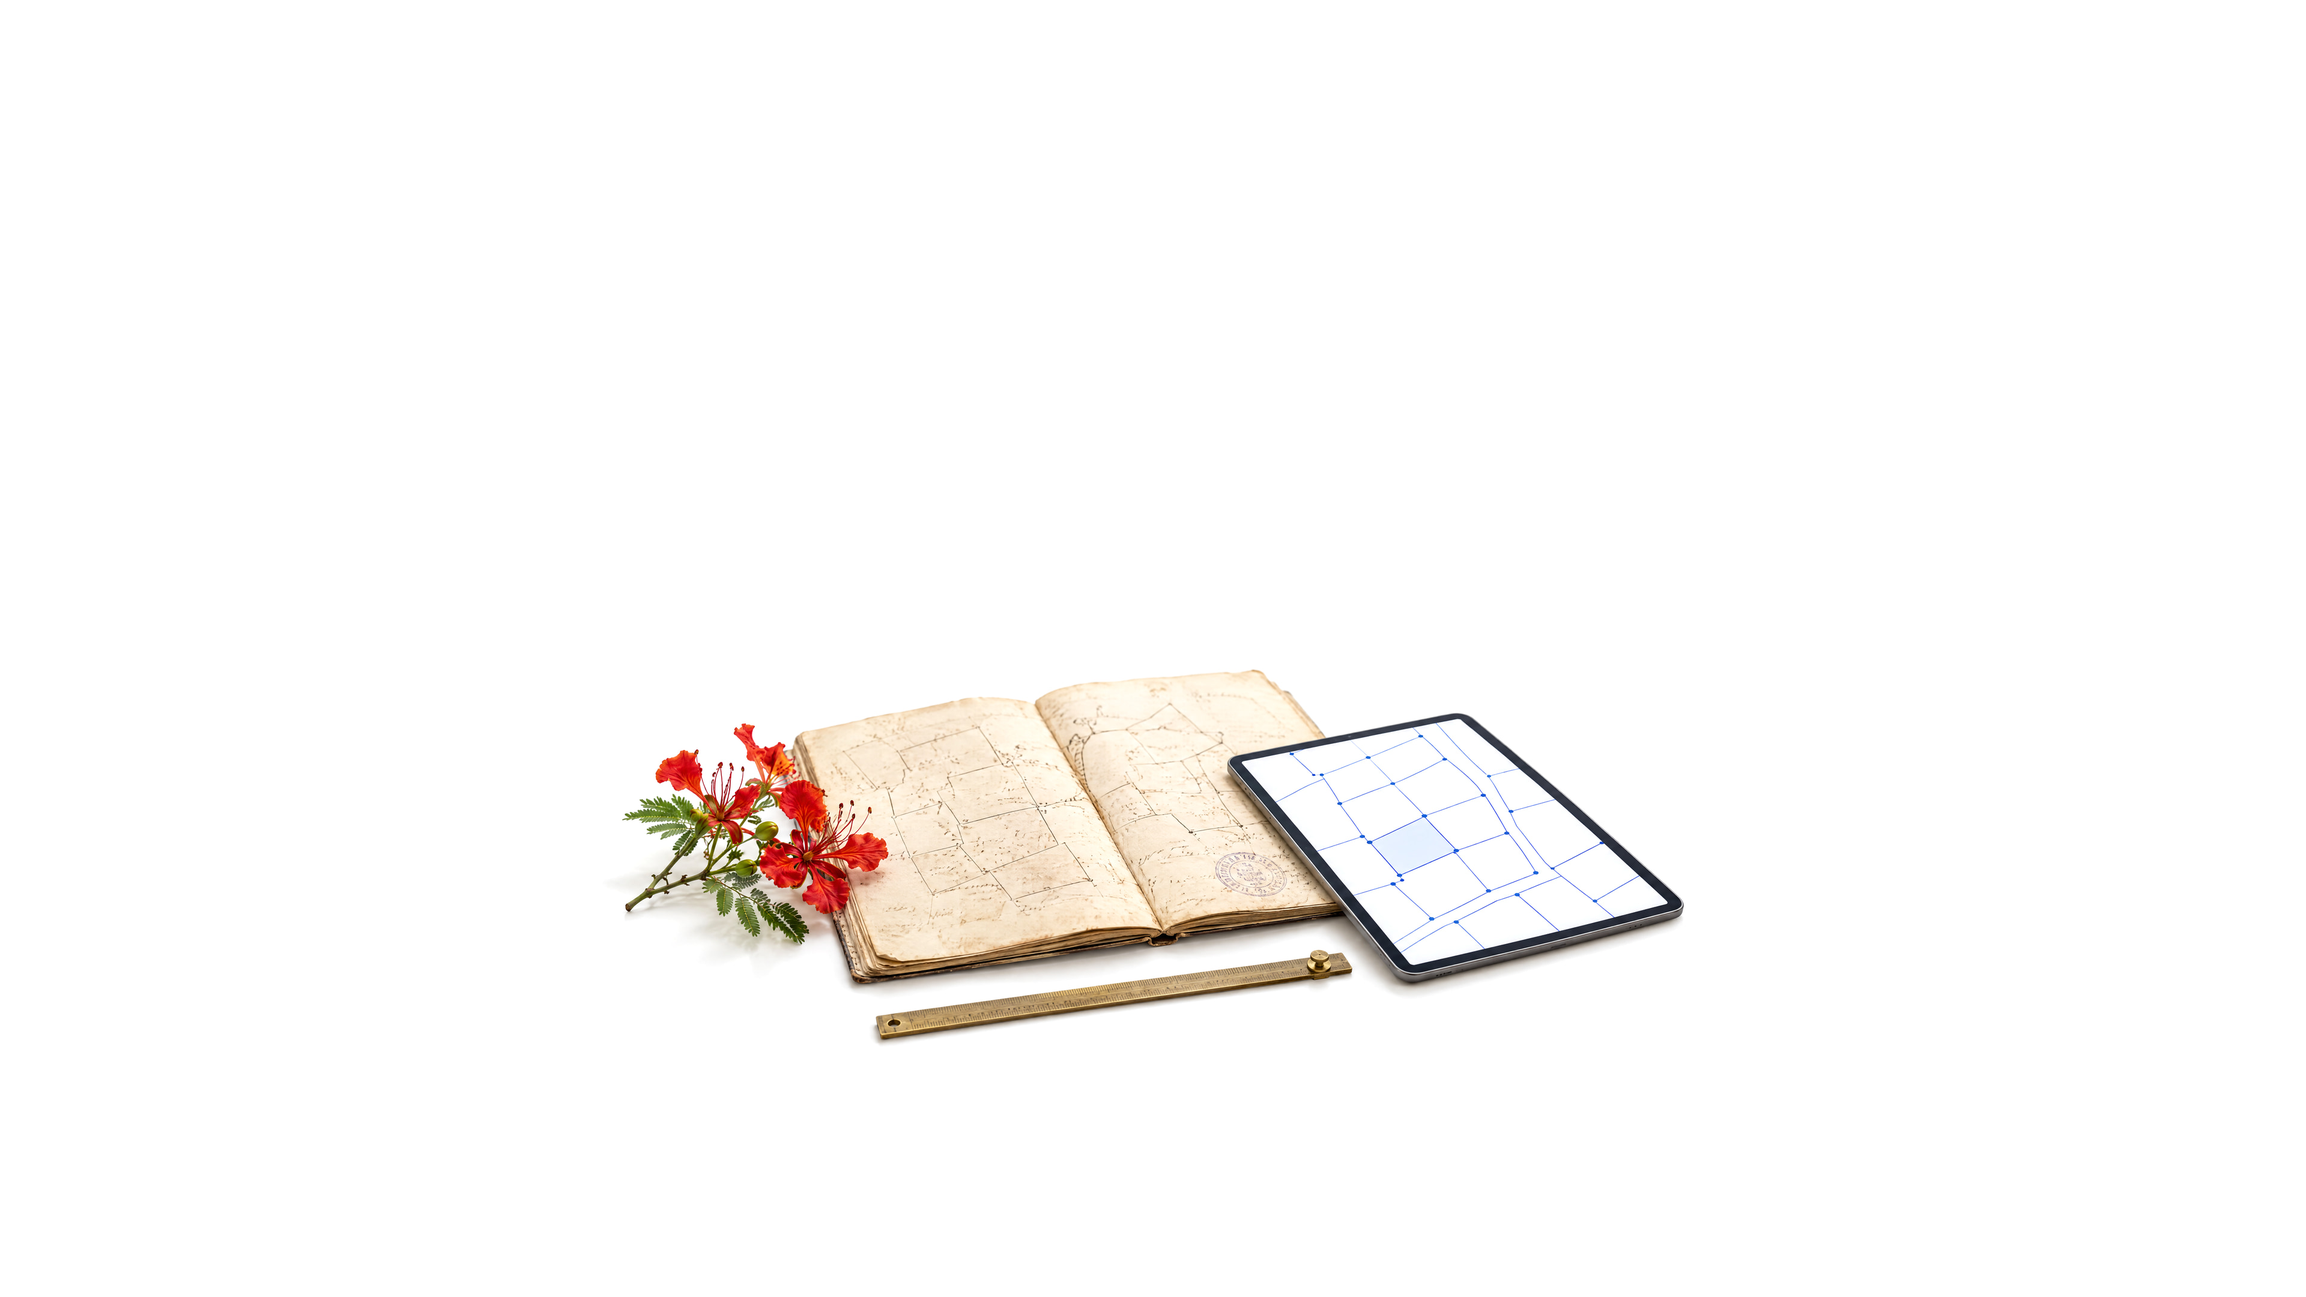
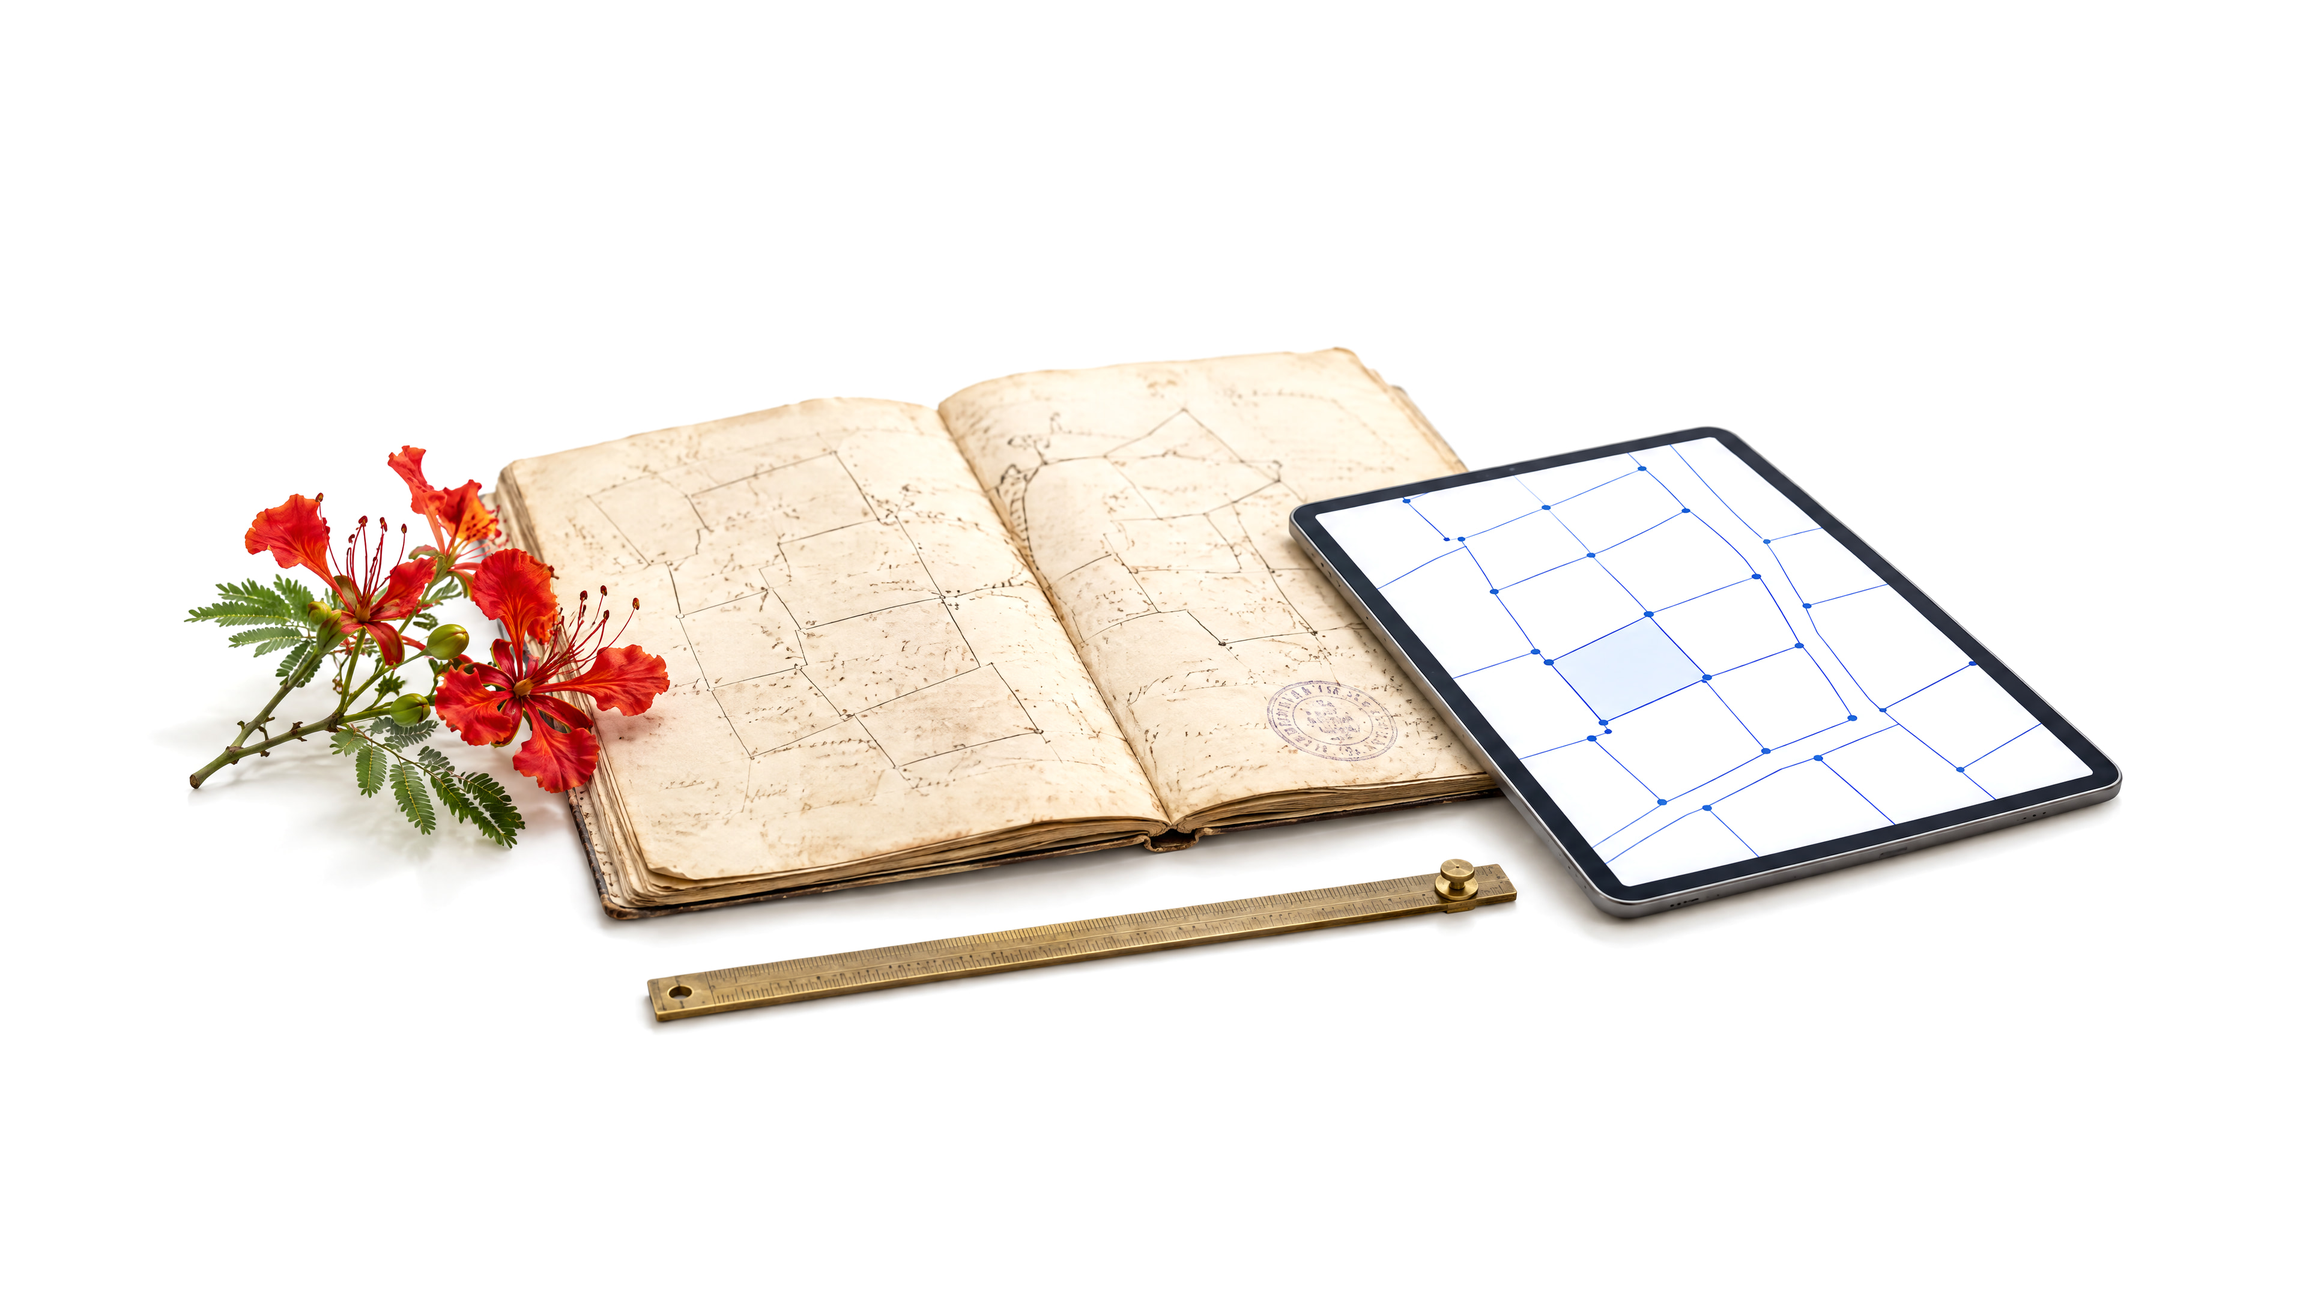
feat(guides): equal-size cards, covers shown whole at 16:9
Owner: all cards the same size, pictures not squashed.
- The first card no longer spans two columns; every card is one size.
- A cover sits under the title in a 16:9 box, closed and open, so it is never
  cropped and the lift animation only scales it evenly. Without a cover the
  blue ground and white title are unchanged.
- Both covers re-fitted from their 4K originals to fill the frame (~84 %
  wide, centred); the 3 + 1 + 1 one gets a new name (-v2) so the 30-day
  optimised-image cache cannot keep serving the old picture.
- The article page shows the cover whole at 16:9.
- The white card's outline sits outside the card, so the picture no longer
  cuts it.

diff --git a/web/components/blog/GuideCards.js b/web/components/blog/GuideCards.js
@@ -10,12 +10,12 @@ import { cn } from '@/lib/utils';
 
 const loadFeatures = () => import('./guideCardFeatures').then((mod) => mod.default);
 
-// The card's photo keeps the SAME pixel size closed and open (the open card's
-// width × header height), and the closed tile only shows a window of it. That
-// is what lets the photo travel with the card without stretching: a layout
-// animation is a transform, and a box that changes shape distorts what is in it.
-// The title box keeps one width for the same reason. CSS variables, so the
-// tile and the open card read the same numbers at every breakpoint.
+// A layout animation is a transform, and a box that changes shape distorts what
+// is in it. So a cover keeps its own 16:9 shape closed and open (the card's
+// width × 9/16, under the title): it only scales, evenly, and is never cropped.
+// Without a cover, the blue ground keeps one pixel size (--gc-w × --gc-h) and
+// the tile shows a window of it. The title box keeps one width for the same
+// reason. CSS variables, so the tile and the open card read the same numbers.
 const SIZES = '[--gc-w:100vw] [--gc-h:90vw] [--gc-title:calc(100vw-72px)] sm:[--gc-w:45rem] sm:[--gc-h:24rem] sm:[--gc-title:19rem]';
 const RADIUS = 20;
 const SPRING = { type: 'spring', stiffness: 380, damping: 36, mass: 0.9 };
@@ -89,7 +89,7 @@ export default function GuideCards({ articles, labels }) {
       <MotionConfig reducedMotion="user" transition={SPRING}>
         <ul className={cn('grid gap-4 sm:grid-cols-2 sm:gap-5', SIZES)}>
           {articles.map((a, i) => (
-            <li key={a.slug} className={i === 0 ? 'sm:col-span-2' : undefined}>
+            <li key={a.slug}>
               <Link
                 ref={(el) => {
                   if (el) tileRefs.current.set(a.slug, el);
@@ -121,13 +121,13 @@ function Tile({ article: a, priority }) {
       style={{ borderRadius: RADIUS }}
       className={cn(
         'relative h-full w-full overflow-hidden shadow-[0_1px_2px_rgb(12_29_80/0.08),0_8px_24px_-12px_rgb(12_29_80/0.35)]',
-        a.coverUrl ? 'bg-white ring-1 ring-inset ring-[rgb(12_29_80/0.08)]' : 'bg-[var(--blue-900)]',
+        a.coverUrl ? 'bg-white ring-1 ring-[rgb(12_29_80/0.08)]' : 'bg-[var(--blue-900)]',
       )}
     >
-      <Media article={a} priority={priority} />
+      <Media article={a} priority={priority} className={a.coverUrl ? 'absolute inset-x-0 bottom-0 aspect-[16/9]' : undefined} />
       <Heading article={a} />
-      {/* A cover is the picture under the title, like the App Store; without one the
-          summary fills the card. The open card always shows it. */}
+      {/* A cover is the picture under the title; without one the summary fills the
+          card. The open card always shows it. */}
       {a.summary && !a.coverUrl ? (
         <m.div layout="position" className="absolute inset-x-0 bottom-0 bg-[linear-gradient(to_top,rgb(0_0_0/0.62)_0%,rgb(0_0_0/0.38)_55%,rgb(0_0_0/0)_100%)] p-5 pt-14">
           <p lang={a.lang} className="line-clamp-2 text-[0.875rem] leading-snug text-white/90">
@@ -187,10 +187,17 @@ function OpenCard({ article: a, labels, phone, onClose }) {
           className="pointer-events-auto relative flex h-full w-full flex-col overflow-hidden bg-surface sm:h-auto sm:max-h-[calc(100dvh-3rem)] sm:max-w-[45rem]"
         >
           <m.div layoutScroll className="flex-1 overflow-y-auto overscroll-contain">
-            <div className={cn('relative h-[var(--gc-h)] w-full shrink-0 overflow-hidden', a.coverUrl ? 'bg-white' : 'bg-[var(--blue-900)]')}>
-              <Media article={a} />
-              <Heading article={a} />
-            </div>
+            {a.coverUrl ? (
+              <div className="bg-white">
+                <Heading article={a} className="relative ml-5 mt-6 sm:ml-8 sm:mt-7" />
+                <Media article={a} className="relative mt-3 aspect-[16/9] w-full" />
+              </div>
+            ) : (
+              <div className="relative h-[var(--gc-h)] w-full shrink-0 overflow-hidden bg-[var(--blue-900)]">
+                <Media article={a} />
+                <Heading article={a} />
+              </div>
+            )}
             <m.div
               initial={{ opacity: 0, y: 16 }}
               animate={{ opacity: 1, y: 0, transition: { delay: 0.12, duration: 0.3, ease: [0.16, 1, 0.3, 1] } }}
@@ -237,13 +244,17 @@ function OpenCard({ article: a, labels, phone, onClose }) {
   );
 }
 
-/** The photo (or the brand-blue ground when the article has none), same size open and closed. */
-function Media({ article: a, priority = false }) {
+/**
+ * The cover in the 16:9 box the caller gives it (shown whole), or, without a
+ * cover, the brand-blue ground at one fixed size, centred.
+ */
+function Media({ article: a, priority = false, className }) {
+  const fixed = !a.coverUrl;
   return (
     <m.div
       layoutId={`gc-media-${a.slug}`}
-      className="absolute top-0 h-[var(--gc-h)] w-[var(--gc-w)]"
-      style={{ left: 'calc(50% - var(--gc-w) / 2)' }}
+      className={fixed ? 'absolute top-0 h-[var(--gc-h)] w-[var(--gc-w)]' : className}
+      style={fixed ? { left: 'calc(50% - var(--gc-w) / 2)' } : undefined}
     >
       {a.coverUrl ? (
         <Image src={a.coverUrl} alt={a.coverAlt || ''} fill sizes={IMAGE_SIZES} priority={priority} className="object-cover" />
@@ -253,26 +264,16 @@ function Media({ article: a, priority = false }) {
           className="absolute inset-0 bg-[radial-gradient(120%_90%_at_15%_0%,var(--blue-400)_0%,var(--blue)_45%,var(--blue-900)_100%)]"
         />
       )}
-      {/* Keeps the title readable. Covers are drawn on white (content/blog/images/src), so
-          over a cover the title is ink on a white fade, which also holds on any photo; the
-          blue ground without a cover keeps a white title on a dark fade. The tile's summary
-          carries its own gradient, so the open card shows the picture's lower half untouched. */}
-      <div
-        aria-hidden="true"
-        className={cn(
-          'absolute inset-0',
-          a.coverUrl
-            ? 'bg-[linear-gradient(to_bottom,rgb(255_255_255/0.88)_0%,rgb(255_255_255/0.6)_22%,rgb(255_255_255/0)_42%)]'
-            : 'bg-[linear-gradient(to_bottom,rgb(0_0_0/0.42)_0%,rgb(0_0_0/0)_40%)]',
-        )}
-      />
+      {/* The white title over the blue ground gets a dark fade; a cover sits under its
+          title, so nothing is drawn over the picture. */}
+      {fixed ? <div aria-hidden="true" className="absolute inset-0 bg-[linear-gradient(to_bottom,rgb(0_0_0/0.42)_0%,rgb(0_0_0/0)_40%)]" /> : null}
     </m.div>
   );
 }
 
-function Heading({ article: a }) {
+function Heading({ article: a, className = 'absolute left-5 top-5' }) {
   return (
-    <m.div layoutId={`gc-head-${a.slug}`} className={cn('absolute left-5 top-5 w-[var(--gc-title)]', a.coverUrl ? 'text-ink' : 'text-white')}>
+    <m.div layoutId={`gc-head-${a.slug}`} className={cn(className, 'w-[var(--gc-title)]', a.coverUrl ? 'text-ink' : 'text-white')}>
       {a.eyebrow ? (
         <p className={cn('text-[0.6875rem] font-semibold uppercase tracking-[0.1em]', a.coverUrl ? 'text-blue-deep' : 'text-white/80')}>{a.eyebrow}</p>
       ) : null}

diff --git a/web/app/(site)/guides/[slug]/page.js b/web/app/(site)/guides/[slug]/page.js
@@ -121,12 +121,10 @@ export default async function GuidePage({ params }) {
           {t('guides.readingTime', { minutes: readingMinutes(article.blocks) })}
           {locale === 'en' && article.lang === 'fr' ? ` · ${t('guides.frenchOnly')}` : ''}
         </p>
-        {/* Covers are drawn for the /guides card (GuideCards): the top of the picture is
-            left clear for the title written over it there. Here the title is above, so the
-            band is wider and leans to the lower part, where the picture's subject sits. */}
+        {/* The cover whole, at its own 16:9, as the /guides cards show it. */}
         {article.coverUrl ? (
-          <div className="relative -mx-4 aspect-[5/2] overflow-hidden bg-canvas-alt sm:mx-0 sm:rounded-xl">
-            <Image src={article.coverUrl} alt={article.coverAlt} fill priority sizes="(min-width: 768px) 720px, 100vw" className="object-cover object-[50%_92%]" />
+          <div className="relative -mx-4 aspect-[16/9] overflow-hidden bg-canvas-alt sm:mx-0 sm:rounded-xl">
+            <Image src={article.coverUrl} alt={article.coverAlt} fill priority sizes="(min-width: 768px) 720px, 100vw" className="object-cover" />
           </div>
         ) : null}
         <ArticleBody blocks={article.blocks} listingsBlock={LiveListings} />

diff --git a/web/lib/guides.js b/web/lib/guides.js
@@ -41,7 +41,7 @@ export const GUIDES = [
     published: '2026-11-11',
     updated: '2026-11-11',
     cta: { href: '/location', label: 'Voir les logements à louer' },
-    cover: '/guides/garantie-3-1-1-kinshasa.jpg',
+    cover: '/guides/garantie-3-1-1-kinshasa-v2.jpg',
     coverAlt: 'Cinq enveloppes alignées : trois bleues, une dorée et une violette, avec une clé de maison.',
     body: [
       { p: 'Avant même la première nuit, un locataire à Kinshasa verse souvent cinq mois de loyer, parfois treize. La ligne « Garantie : 3 + 1 + 1 » d’une annonce décide souvent plus du budget que le loyer lui-même. Entrez votre loyer dans le calculateur ci-dessous pour voir le montant exact, poste par poste, et le comparer au plafond fixé par la loi de 2015 sur les baux.' },

diff --git a/web/tests/unit/blog.test.js b/web/tests/unit/blog.test.js
@@ -115,7 +115,7 @@ test('articles: English only when complete, a post replaces the guide with its s
 
 test('a code guide may carry a cover from public/guides, never another address', () => {
   const guide = GUIDES.find((g) => g.slug === 'garantie-3-1-1-kinshasa');
-  assert.equal(articleFromGuide(guide, 'fr').coverUrl, '/guides/garantie-3-1-1-kinshasa.jpg');
+  assert.equal(articleFromGuide(guide, 'fr').coverUrl, '/guides/garantie-3-1-1-kinshasa-v2.jpg');
   assert.ok(articleFromGuide(guide, 'fr').coverAlt.length > 0);
   assert.notEqual(articleFromGuide(guide, 'en').coverAlt, articleFromGuide(guide, 'fr').coverAlt);
   for (const cover of ['https://elsewhere.example/a.jpg', '/uploads/a.jpg', '/guides/../a.jpg', 'garantie.jpg']) {

diff --git a/web/CLAUDE.md b/web/CLAUDE.md
@@ -676,7 +676,7 @@ cascade; engine leads and visits stay).
   - Radix content portals to `document.body`, so it is **outside the `<form>`**. `FilterBar` therefore owns every filter value in React state and renders hidden inputs inside the form; the pill panels and the sheet are pure UI. Don't put a named form field inside a portalled panel and expect it to submit.
 - **Icons are `lucide-react`, always**, with `ICON_SIZE` / `ICON_STROKE_WIDTH` from `lib/constants.js`. The hand-rolled WhatsApp/Facebook/Instagram brand SVGs in `Footer.js` and `WhatsAppCTA.js` are the one deliberate exception — this lucide version ships no brand glyphs (confirmed by a failed build, not assumed).
 - **Motion is CSS, not a library.** `framer-motion`, `lib/motion.js` and `lib/useMotionSafe.js` are gone (see "Mobile performance & resilience" below). The presets live in `app/globals.css`: `.u-pop` (a toggled icon — key the span on a counter and apply the class only when it is > 0, so it never plays on mount), `.u-reveal` (entrance on mount), `.u-rise` (small panel over the map), `.u-reveal-in-view` (scroll-driven, `animation-timeline: view()`, no JS; a browser without it shows the element with no reveal). All are gated on `prefers-reduced-motion` in the CSS itself. Radix `Dialog`/`Sheet` animate via `data-state` + `tw-animate-css`. Don't add a motion library back for decoration: it was ~40 KB gzip on every page for effects most of them never ran on a phone.
-  - **One exception, owner's request 2026-11-13: `/guides` uses Motion (`motion` package) for its App Store "Today" cards** (`components/blog/GuideCards.js`, modelled on motion.dev's react-app-store example). A tap lifts the card into a panel (photo, title, summary, the article's opening from `articleIntro`, "Lire l'article complet"); Escape, the backdrop, the ✕ and Android's back button (a `#slug` history entry) close it, and the read link uses `replace` so back from the article lands on /guides. It stays on that page only: `LazyMotion strict` + `m.*` components, with `domMax` loaded by dynamic import (`guideCardFeatures.js`), and every card is a server-rendered `<a href>` that opens the article without JS or with a modifier key. The photo and the title box keep the same pixel size closed and open (CSS variables `--gc-w/--gc-h/--gc-title`), because a layout animation is a transform and a box that changes shape stretches its content. Don't import `motion` anywhere else without the same scoping.
+  - **One exception, owner's request 2026-11-13: `/guides` uses Motion (`motion` package) for its App Store "Today" cards** (`components/blog/GuideCards.js`, modelled on motion.dev's react-app-store example). A tap lifts the card into a panel (photo, title, summary, the article's opening from `articleIntro`, "Lire l'article complet"); Escape, the backdrop, the ✕ and Android's back button (a `#slug` history entry) close it, and the read link uses `replace` so back from the article lands on /guides. It stays on that page only: `LazyMotion strict` + `m.*` components, with `domMax` loaded by dynamic import (`guideCardFeatures.js`), and every card is a server-rendered `<a href>` that opens the article without JS or with a modifier key. Cards are all one size (owner, 2026-11-13). A cover sits under the title in a 16:9 box, closed and open, so it is never cropped and only scales evenly (a layout animation is a transform: a box that changes shape stretches its content); the title box keeps one width (`--gc-title`) for the same reason. Without a cover, the blue ground keeps one pixel size (`--gc-w/--gc-h`) and the title sits over it in white. Covers are 3840×2160 on white with the subject filling ~84 % of the width (`content/blog/images/src/higgsfield/recompose.cjs`); the article page shows them whole at 16:9. Don't import `motion` anywhere else without the same scoping.
   - **The motion layer (2026-09-23)** adds, same file, same rules: `.u-stagger` (a list's rows enter on mount, 60ms apart, capped at 7) and `.u-stagger-inner` (the same on each row's *content*, for hairline grids where a fading cell flashes `bg-line` — `AgentStatGrid`); `.u-stagger-in-view` / `.u-stagger-in-view-inner` (scroll-driven per child, columns of a grid row cascading via `--u-col`); `.u-rail-reveal` (FeaturedListingsCarousel only: whole strip below `sm`, per card from `sm`); `.u-hero-settle` + `.u-lift-in` (hero photo and headline — transform only, never opacity, because the hero is the LCP); `.u-attention` (three beats on an overdue to-do badge, then still); `.u-header-elevate` (the header's shadow deepens over the first 120px of scroll, via a pseudo-element's opacity on `scroll(root)`). Card photos zoom 1.04 on hover and the card presses to 0.985 unless the press is on one of its buttons.
   - **Keyframes use `translate`/`scale`, never `transform`.** A `both`-filled entrance holds its last frame forever, and a held `transform: none` silently kills every transform-based hover/press on that element (`.u-press`, `.u-card-interactive`, `.u-btn-primary`). Don't put an entrance on an element that uses Tailwind's `translate-*`/`scale-*` utilities either — that is the property they now share.
   - To stagger a list that shares its parent with other elements, wrap the `map` in `<div className="u-stagger contents">`: no box, so the parent's gap is untouched, and `nth-child` counts only the rows.
